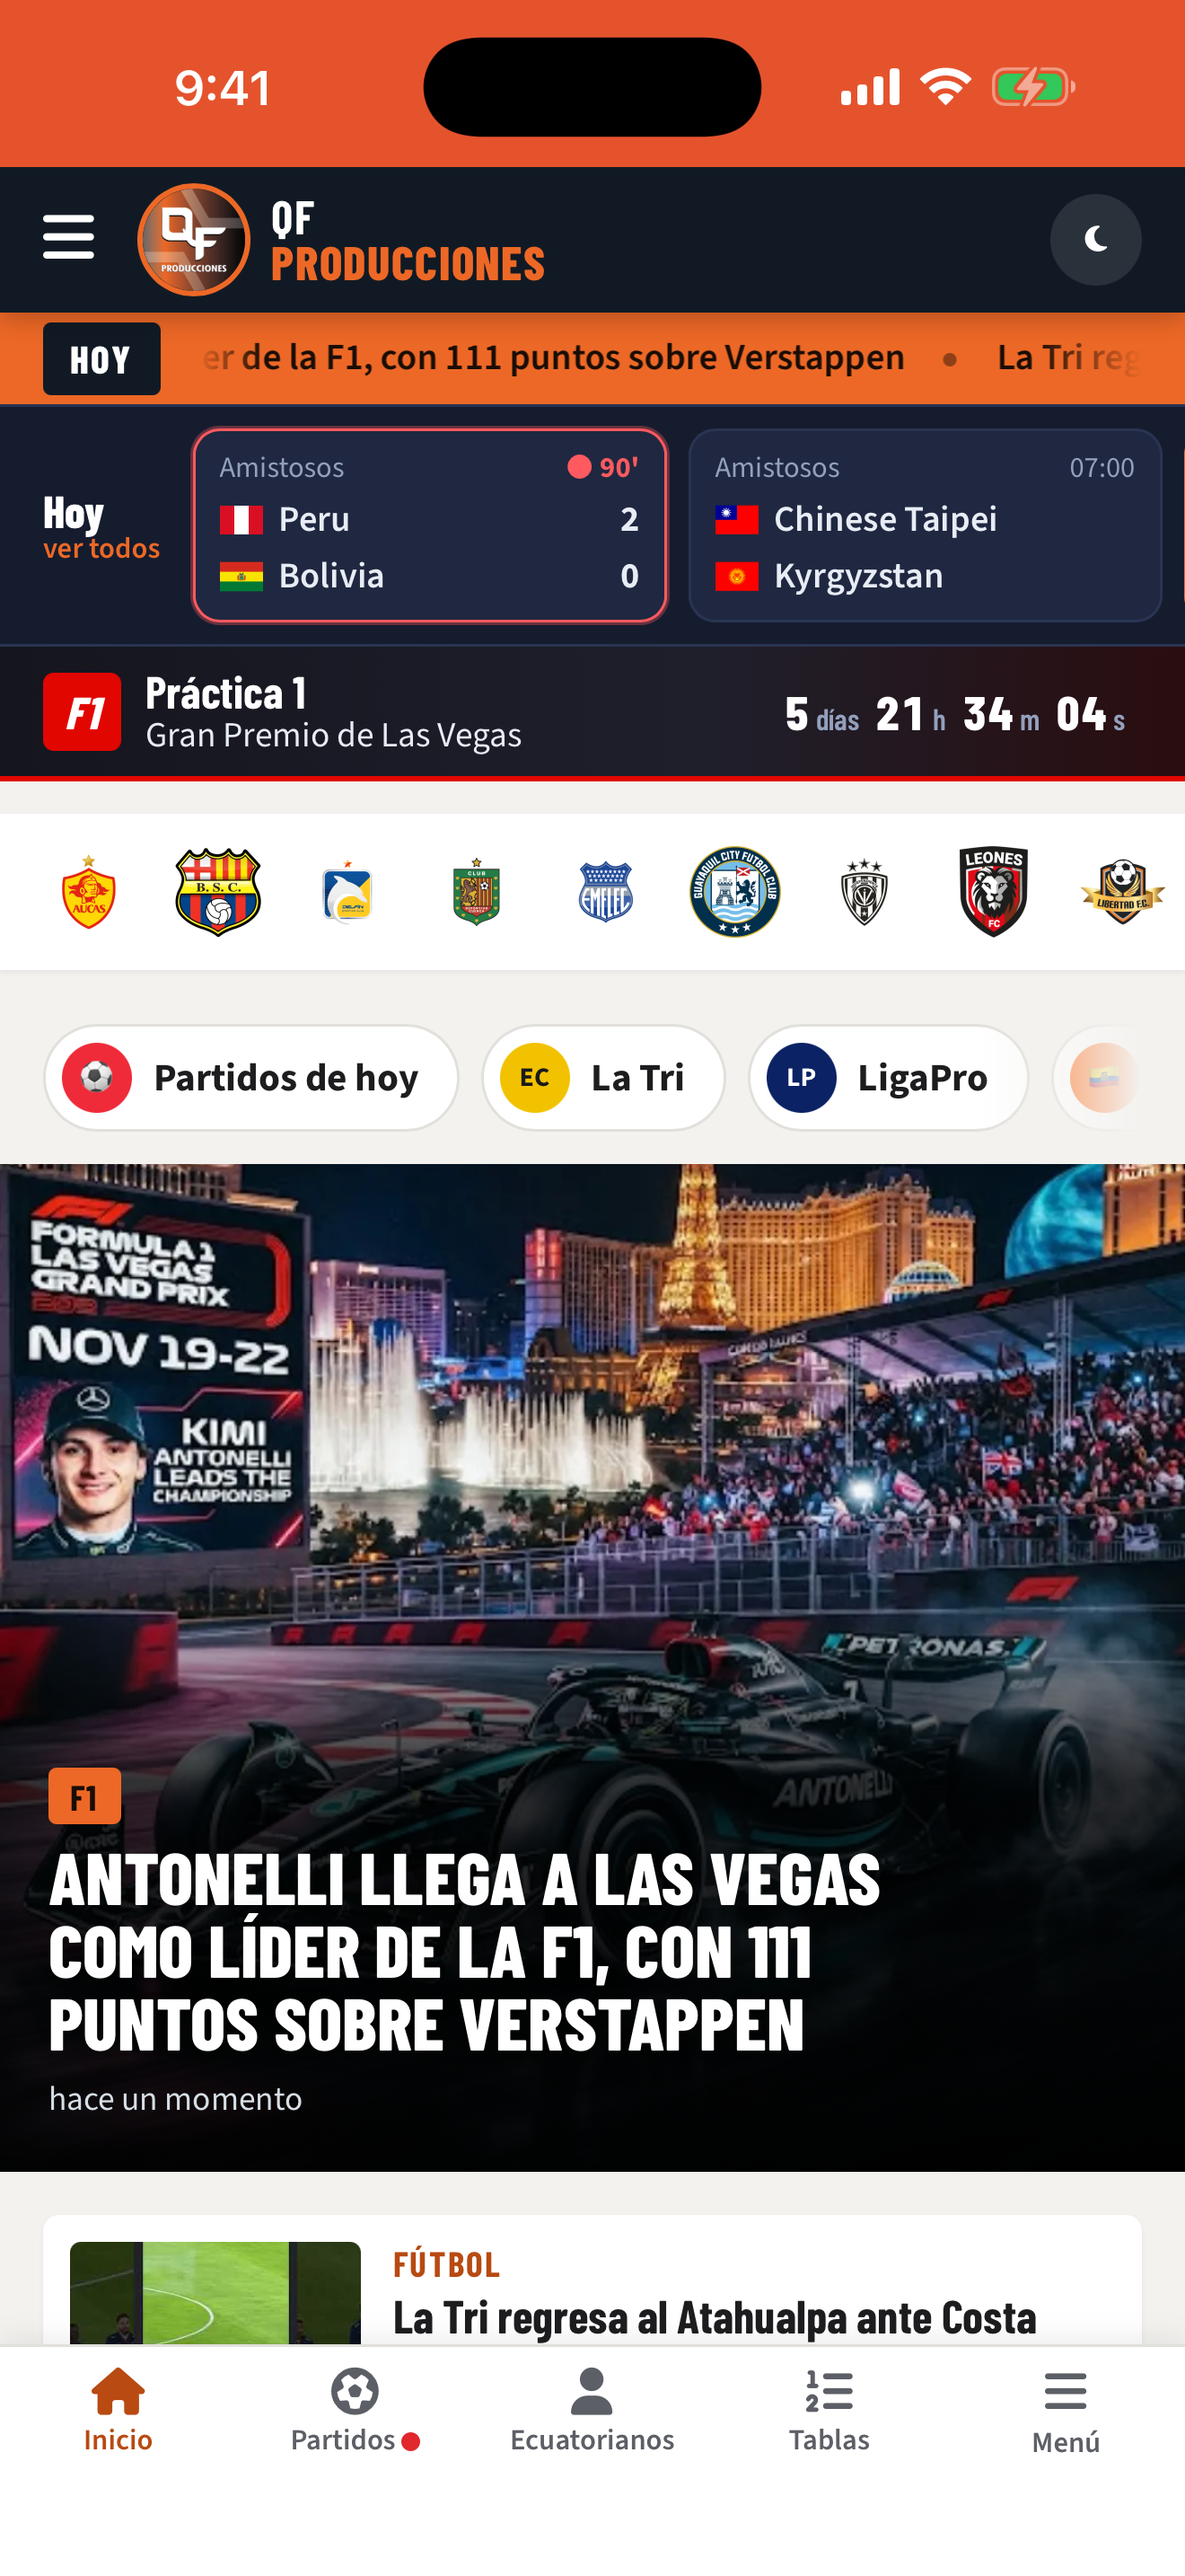
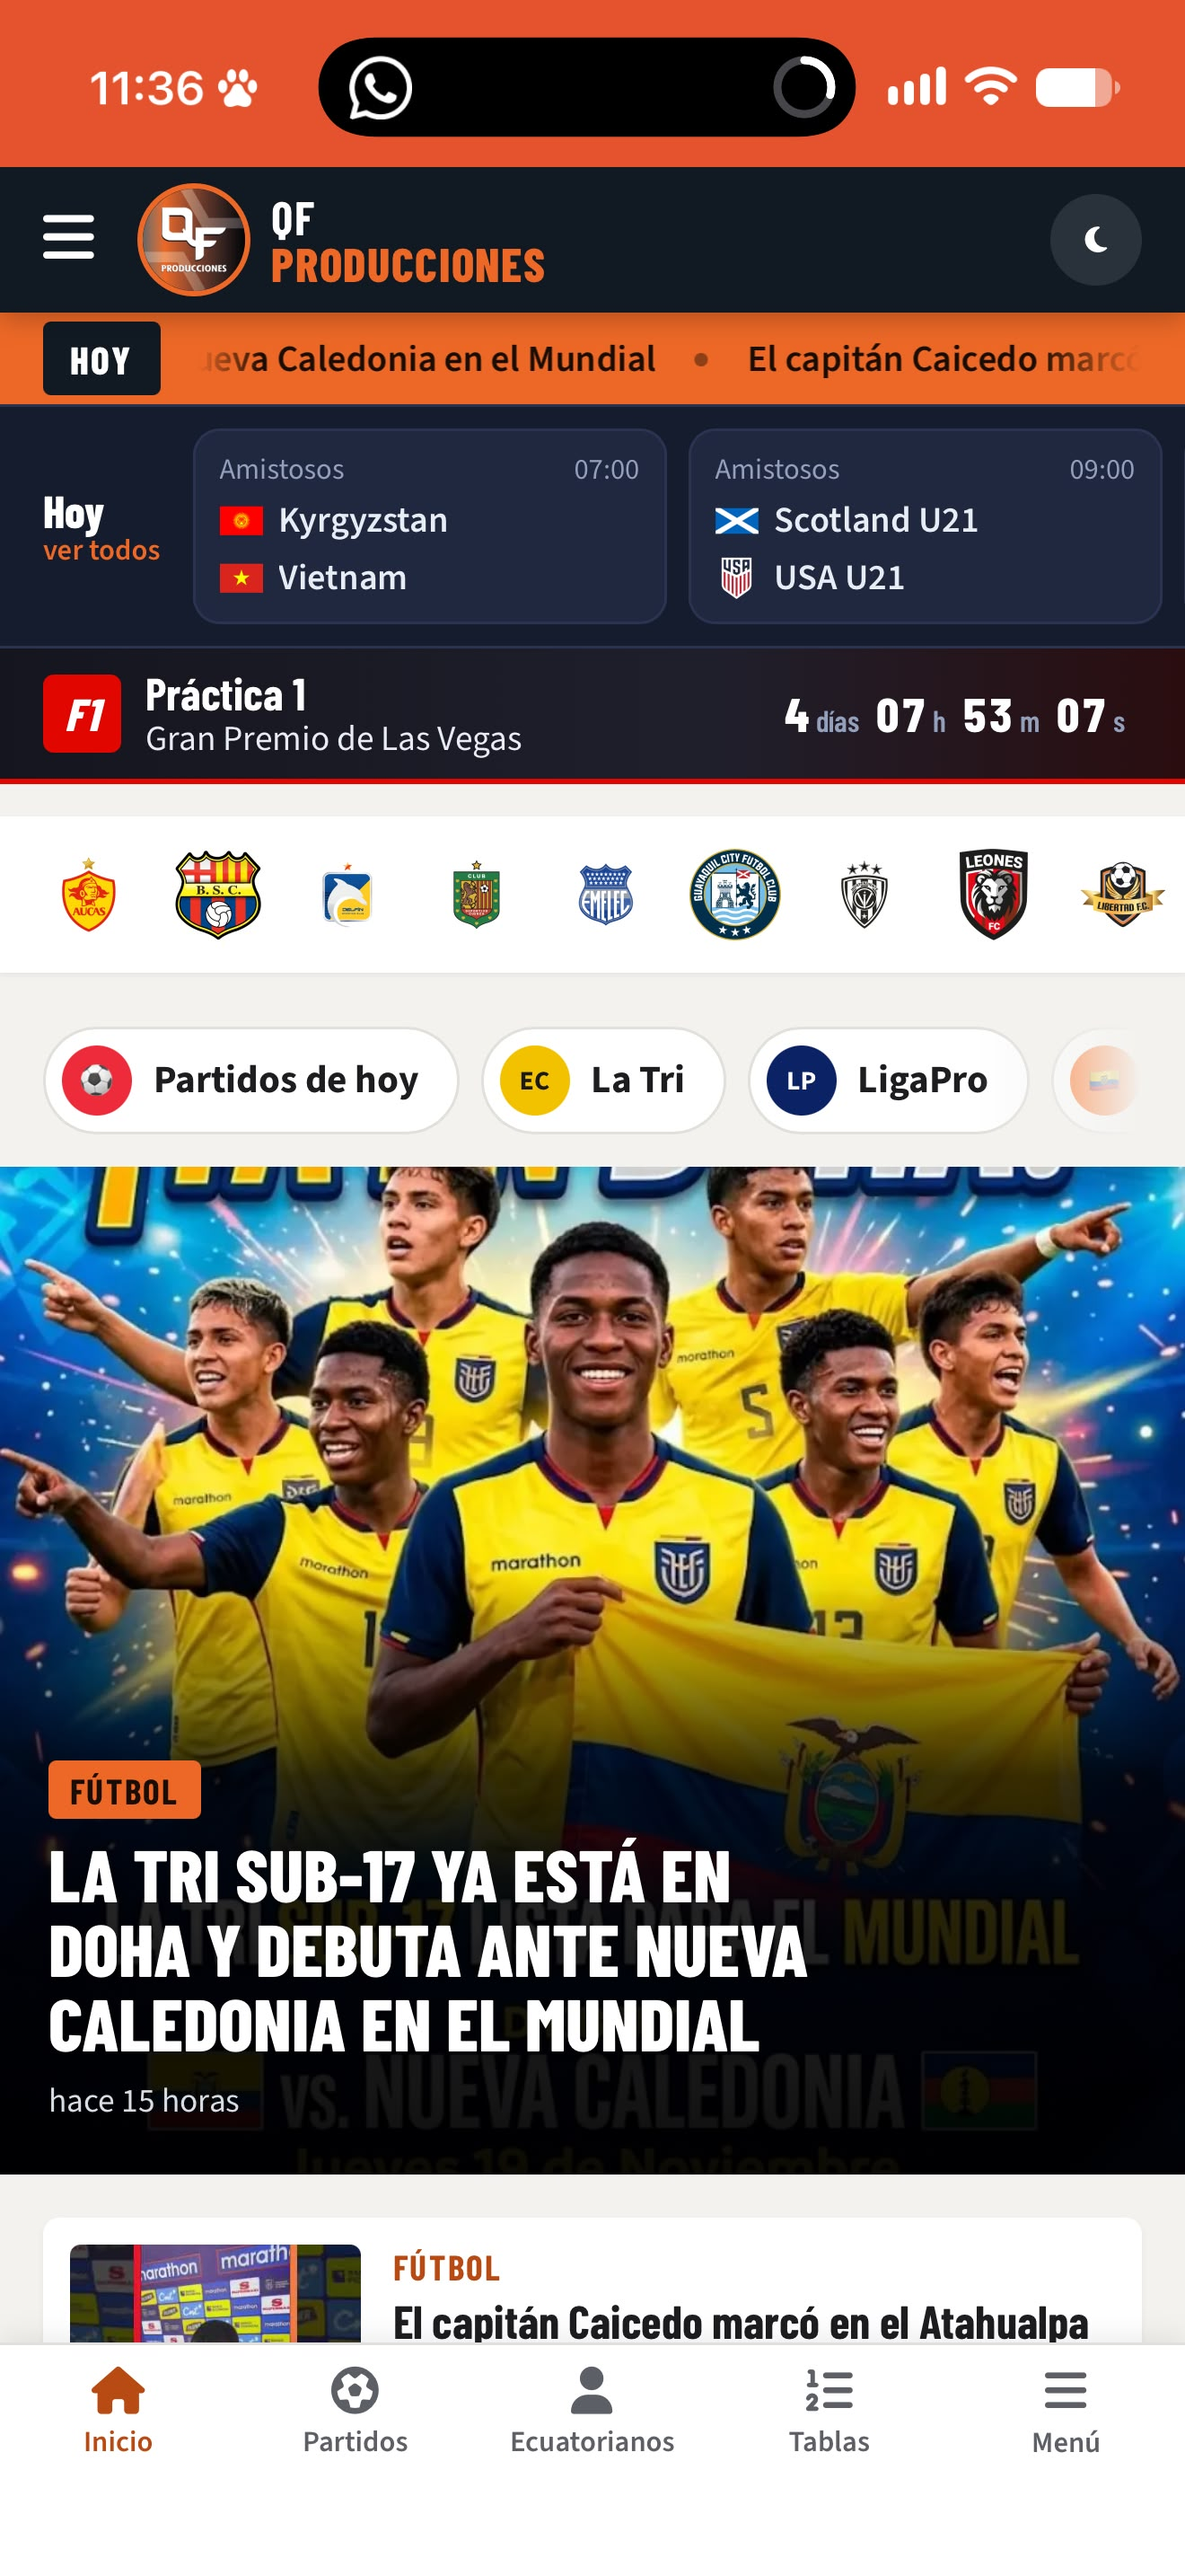
QF Deportes: capturas del iPhone 16 Pro Max, video para Apple y reenvío de envíos con problemas
Claude-Session: https://claude.ai/code/session_01AqAog5xTc4xkcNyujmxSCx

diff --git a/herramientas/publicar_app_store.py b/herramientas/publicar_app_store.py
@@ -358,6 +358,13 @@ def preparar(app, datos_contacto):
 
 
 def enviar(aid, vid):
+    # Si Apple dejo un envio con "problemas sin resolver", se reenvia ese mismo
+    st, r = pedir("GET", "/v1/reviewSubmissions?filter[app]=%s&filter[state]=UNRESOLVED_ISSUES&limit=5" % aid)
+    if st == 200 and r.get("data"):
+        envio = r["data"][0]["id"]
+        ok(*pedir("PATCH", "/v1/reviewSubmissions/" + envio, {"data": {
+            "type": "reviewSubmissions", "id": envio, "attributes": {"submitted": True}}}), "volver a enviar a revision")
+        return envio
     st, r = pedir("GET", "/v1/reviewSubmissions?filter[app]=%s&filter[state]=READY_FOR_REVIEW&limit=5" % aid)
     envio = r["data"][0]["id"] if st == 200 and r.get("data") else None
     if not envio:
